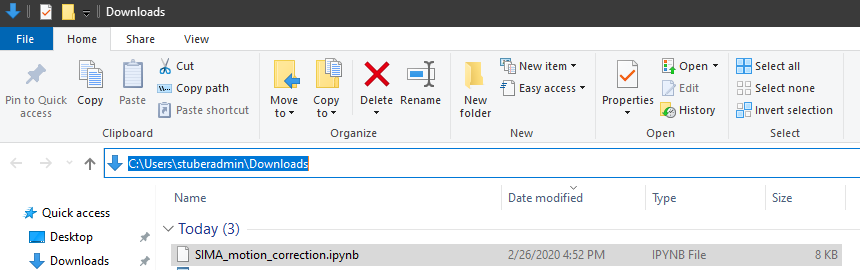
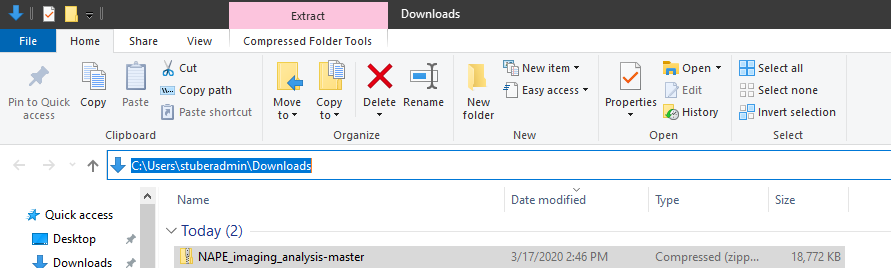
updated anaconda install guide for whole repo

diff --git a/docs/_build/html/install_anaconda_sima.html b/docs/_build/html/install_anaconda_sima.html
@@ -188,23 +188,25 @@ b. Choose Python 3.7 version for most up-to-date python version. Note: You can s
 <div class="section" id="starting-anaconda-and-installing-an-environment">
 <h2>Starting Anaconda and installing an environment<a class="headerlink" href="#starting-anaconda-and-installing-an-environment" title="Permalink to this headline">¶</a></h2>
 <ol class="arabic simple" start="5">
-<li><p>Search for “Anaconda” in the start menu and click “Anaconda Prompt</p></li>
+<li><p>Search for “Anaconda” in the start menu and click “Anaconda Prompt”</p></li>
 </ol>
 <img alt="_images/4_open_prompt.png" src="_images/4_open_prompt.png" />
-<p>This is how the anaconda prompt looks like at the start. The current environment is in parentheses and the following text indicates what directory you currently are in (equivalent to if you had the finder/explorer window open to that specific folder).
-<br> * Note: an environment is a directory that contains a collection of python packages that the user can customize and tailor to a specific project. One can create, edit, and delete any number of environments as he or she chooses.</p>
+<p>This is how the anaconda prompt looks like at the start. The current environment is in parentheses and the following text indicates what directory you currently are in (equivalent to if you had the finder/explorer window open to that specific folder).|br|
+* Note: an environment is a directory that contains a collection of python packages that the user can customize and tailor to a specific project. One can create, edit, and delete any number of environments as he or she chooses.|br|</p>
 <img alt="_images/5_prompt.png" src="_images/5_prompt.png" />
-<p>6) Download the sima_env.yml file in this link: <a class="reference external" href="https://github.com/zhounapeuw/NAPE_imaging_analysis/blob/master/sima_env.yml">https://github.com/zhounapeuw/NAPE_imaging_analysis/blob/master/sima_env.yml</a>
-<br> *  To do this, you need to right click the “raw” button and click “Save target as” and save the file to an easy-to-access folder (throughout this walkthrough, it will be in the Downloads folder).</p>
+<p>Copy, paste, and execute the following code in the anaconda prompt to make sure conda, the package installer, is up to date: <code class="docutils literal notranslate"><span class="pre">conda</span> <span class="pre">update</span> <span class="pre">-n</span> <span class="pre">base</span> <span class="pre">-c</span> <span class="pre">defaults</span> <span class="pre">conda</span></code></p>
+<img alt="_images/anaconda_sima_install/5_2_update_conda.png" src="_images/anaconda_sima_install/5_2_update_conda.png" />
+<p>6) Download the sima_env.yml file in this link: <a class="reference external" href="https://github.com/zhounapeuw/NAPE_imaging_analysis/blob/master/sima_env.yml">https://github.com/zhounapeuw/NAPE_imaging_analysis/blob/master/sima_env.yml</a> <br>
+*  To do this, you need to right click the “raw” button and click “Save target as” and save the file to an easy-to-access folder (throughout this walkthrough, it will be in the Downloads folder).</p>
 <img alt="_images/6_get_env.png" src="_images/6_get_env.png" />
-<p>7) Take note of where the sima_env.yml file is located (in this example it is in my downloads folder, but it can be anywhere you want as long as you provide the correct path to the file during installation).
-<br> *  Take note of the full path to where the sima_env.yml is in. If it is in the downloads folder, the path will be similar to <strong>“C:/Users/user_name/Downloads”</strong> where <strong>user_name</strong> may differ across computers based on what the user name is. Please replace <em>user_name</em> with your PC’s username.
-<br> *  Note: the sima_env.yml file contains installation information to recreate the same environment and installed packages to run the analyses.
-<br> *  Note: the sima_env.yml file can be deleted once everything has been installed and the analysis scripts work.
-<br> *  Note: the python version of this environment is 2.7, which is required for SIMA (the motion correction package) to run.</p>
+<p>7) Take note of where the sima_env.yml file is located (in this example it is in my downloads folder, but it can be anywhere you want as long as you provide the correct path to the file during installation). <br>
+*  Take note of the full path to where the sima_env.yml is in. If it is in the downloads folder, the path will be similar to <strong>“C:/Users/user_name/Downloads”</strong> where <strong>user_name</strong> may differ across computers based on what the user name is. Please replace <em>user_name</em> with your PC’s username. <br>
+*  Note: the sima_env.yml file contains installation information to recreate the same environment and installed packages to run the analyses. <br>
+*  Note: the sima_env.yml file can be deleted once everything has been installed and the analysis scripts work. <br>
+*  Note: the python version of this environment is 2.7, which is required for SIMA (the motion correction package) to run.</p>
 <img alt="_images/7_env_path.png" src="_images/7_env_path.png" />
-<p>8) Copy, paste, and execute the following code into the anaconda prompt to recreate a new environment from the sima_env.yml file: <code class="docutils literal notranslate"><span class="pre">conda</span> <span class="pre">env</span> <span class="pre">create</span> <span class="pre">-n</span> <span class="pre">sima_env</span> <span class="pre">-f</span> <span class="pre">C:/Users/user_name/Downloads/sima_env.yml</span></code> (remember to replace the user_name)
-<br> * Note, you can also navigate to the Downloads folder yourself using the <strong>cd</strong> command and simply execute <code class="docutils literal notranslate"><span class="pre">conda</span> <span class="pre">env</span> <span class="pre">create</span> <span class="pre">-n</span> <span class="pre">sima_env</span> <span class="pre">-f</span> <span class="pre">sima_env.yml</span></code></p>
+<p>8) Copy, paste, and execute the following code into the anaconda prompt to recreate a new environment from the sima_env.yml file: <code class="docutils literal notranslate"><span class="pre">conda</span> <span class="pre">env</span> <span class="pre">create</span> <span class="pre">-n</span> <span class="pre">sima_env</span> <span class="pre">-f</span> <span class="pre">C:/Users/user_name/Downloads/sima_env.yml</span></code> (remember to replace the user_name) <br>
+* Note, you can also navigate to the Downloads folder yourself using the <strong>cd</strong> command and simply execute <code class="docutils literal notranslate"><span class="pre">conda</span> <span class="pre">env</span> <span class="pre">create</span> <span class="pre">-n</span> <span class="pre">sima_env</span> <span class="pre">-f</span> <span class="pre">sima_env.yml</span></code></p>
 <img alt="_images/8_create_env.png" src="_images/8_create_env.png" />
 <p>Once the environment installer runs through, you should see a list of all the conda and python packages successfully installed.</p>
 <img alt="_images/9_env_installed.png" src="_images/9_env_installed.png" />
@@ -226,25 +228,27 @@ b. Choose Python 3.7 version for most up-to-date python version. Note: You can s
 <div class="section" id="using-jupyter-notebook-to-edit-and-run-sima-code">
 <h2>Using jupyter notebook to edit and run (SIMA) code<a class="headerlink" href="#using-jupyter-notebook-to-edit-and-run-sima-code" title="Permalink to this headline">¶</a></h2>
 <ol class="arabic simple" start="13">
-<li><p>Download the SIMA_motion_correction.ipynb script from this link: <a class="reference external" href="https://github.com/zhounapeuw/NAPE_imaging_analysis/blob/master/SIMA_motion_correction.ipynb">https://github.com/zhounapeuw/NAPE_imaging_analysis/blob/master/SIMA_motion_correction.ipynb</a></p></li>
+<li><p>Download the NAPE analysis script repository from this link: <a class="reference external" href="https://github.com/zhounapeuw/NAPE_imaging_analysis">https://github.com/zhounapeuw/NAPE_imaging_analysis</a></p></li>
 </ol>
 <img alt="_images/13_download_mc_code.png" src="_images/13_download_mc_code.png" />
 <ol class="arabic simple" start="14">
-<li><p>Take note of where the analysis jupyter notebook or python script resides (We have it in the Downloads folder for this demo)</p></li>
+<li><p>Take note of where the downloaded zip file resides (we have it in the Downloads folder for this demo) and unzip the directory.</p></li>
 </ol>
 <img alt="_images/14_mc_code_dir.png" src="_images/14_mc_code_dir.png" />
-<p>Then navigate to that folder in the anaconda prompt : <code class="docutils literal notranslate"><span class="pre">cd</span> <span class="pre">C:/Users/user_name/Downloads/</span></code> (remember to replace the user_name)</p>
+<p>Then navigate to the sima_mc_wrapper folder in the anaconda prompt (your path may look slightly different): <code class="docutils literal notranslate"><span class="pre">cd</span> <span class="pre">C:/Users/user_name/Downloads/NAPE_imaging_analysis-master/sima_mc_wrapper</span></code> (remember to replace the user_name)</p>
 <img alt="_images/15_cd_to_code.png" src="_images/15_cd_to_code.png" />
-<p>15) Execute <code class="docutils literal notranslate"><span class="pre">jupyter</span> <span class="pre">notebook</span></code> and an instance of jupyter notebook will start up in your web browser.
-<br> * Jupyter notebook is a powerful application that allows for editing and running python code. Anaconda boots up an instance of python that can be interacted with via the jupyter notebook web client.
-<br> * The first page that opens in your browser will show the files in your current directory specified in the Anaconda prompt. Files with the ipynb (iPython notebook) extension can be clicked and will open the notebook.</p>
+<p>15) Execute <code class="docutils literal notranslate"><span class="pre">jupyter</span> <span class="pre">notebook</span></code> and an instance of jupyter will start up in your web browser. <br>
+* Jupyter notebook is a powerful application that allows for editing and running python code. Anaconda boots up an instance of python that can be interacted with via the jupyter notebook web client. <br>
+* The first page that opens in your browser will show the files in your current directory specified in the Anaconda prompt. Files with the ipynb (iPython notebook) extension can be clicked and will open the notebook.</p>
 <img alt="_images/16_jupyter_open.png" src="_images/16_jupyter_open.png" />
 <p>Then the following window will open in your default browser:</p>
 <img alt="_images/17_jupyter_notebook.png" src="_images/17_jupyter_notebook.png" />
-<p>A jupyter notebook consists of cells where one can write and execute code. Typically the first cell contains lines for importing packages and dependencies. For example, for us to use the SIMA library and its functions, we must have an import sima line.
-<br> * To run a cell, the easiest way is to press shift + enter
-<br> * Refer to this guide for more details on how to use jupyter notebook: <a class="reference external" href="https://www.codecademy.com/articles/how-to-use-jupyter-notebooks">https://www.codecademy.com/articles/how-to-use-jupyter-notebooks</a></p>
+<p>Click the main_parallel.ipynb link and a jupyter notebook will open.</p>
+<p>A jupyter notebook consists of cells where one can write and execute code. Typically the first cell contains lines for importing packages and dependencies. For example, for us to use the SIMA library and its functions, we must have an import sima line. <br>
+* To run a cell, the easiest way is to press shift + enter <br>
+* Refer to this guide for more details on how to use jupyter notebook: <a class="reference external" href="https://www.codecademy.com/articles/how-to-use-jupyter-notebooks">https://www.codecademy.com/articles/how-to-use-jupyter-notebooks</a></p>
 <img alt="_images/18_mc_code.png" src="_images/18_mc_code.png" />
+<p>Read and follow the documentation within the jupyter notebook on how to analyze data.</p>
 </div>
 <div class="section" id="troubleshooting">
 <h2>Troubleshooting<a class="headerlink" href="#troubleshooting" title="Permalink to this headline">¶</a></h2>

diff --git a/docs/install_anaconda_sima.html b/docs/install_anaconda_sima.html
@@ -188,23 +188,25 @@ b. Choose Python 3.7 version for most up-to-date python version. Note: You can s
 <div class="section" id="starting-anaconda-and-installing-an-environment">
 <h2>Starting Anaconda and installing an environment<a class="headerlink" href="#starting-anaconda-and-installing-an-environment" title="Permalink to this headline">¶</a></h2>
 <ol class="arabic simple" start="5">
-<li><p>Search for “Anaconda” in the start menu and click “Anaconda Prompt</p></li>
+<li><p>Search for “Anaconda” in the start menu and click “Anaconda Prompt”</p></li>
 </ol>
 <img alt="_images/4_open_prompt.png" src="_images/4_open_prompt.png" />
-<p>This is how the anaconda prompt looks like at the start. The current environment is in parentheses and the following text indicates what directory you currently are in (equivalent to if you had the finder/explorer window open to that specific folder).
-<br> * Note: an environment is a directory that contains a collection of python packages that the user can customize and tailor to a specific project. One can create, edit, and delete any number of environments as he or she chooses.</p>
+<p>This is how the anaconda prompt looks like at the start. The current environment is in parentheses and the following text indicates what directory you currently are in (equivalent to if you had the finder/explorer window open to that specific folder).|br|
+* Note: an environment is a directory that contains a collection of python packages that the user can customize and tailor to a specific project. One can create, edit, and delete any number of environments as he or she chooses.|br|</p>
 <img alt="_images/5_prompt.png" src="_images/5_prompt.png" />
-<p>6) Download the sima_env.yml file in this link: <a class="reference external" href="https://github.com/zhounapeuw/NAPE_imaging_analysis/blob/master/sima_env.yml">https://github.com/zhounapeuw/NAPE_imaging_analysis/blob/master/sima_env.yml</a>
-<br> *  To do this, you need to right click the “raw” button and click “Save target as” and save the file to an easy-to-access folder (throughout this walkthrough, it will be in the Downloads folder).</p>
+<p>Copy, paste, and execute the following code in the anaconda prompt to make sure conda, the package installer, is up to date: <code class="docutils literal notranslate"><span class="pre">conda</span> <span class="pre">update</span> <span class="pre">-n</span> <span class="pre">base</span> <span class="pre">-c</span> <span class="pre">defaults</span> <span class="pre">conda</span></code></p>
+<img alt="_images/anaconda_sima_install/5_2_update_conda.png" src="_images/anaconda_sima_install/5_2_update_conda.png" />
+<p>6) Download the sima_env.yml file in this link: <a class="reference external" href="https://github.com/zhounapeuw/NAPE_imaging_analysis/blob/master/sima_env.yml">https://github.com/zhounapeuw/NAPE_imaging_analysis/blob/master/sima_env.yml</a> <br>
+*  To do this, you need to right click the “raw” button and click “Save target as” and save the file to an easy-to-access folder (throughout this walkthrough, it will be in the Downloads folder).</p>
 <img alt="_images/6_get_env.png" src="_images/6_get_env.png" />
-<p>7) Take note of where the sima_env.yml file is located (in this example it is in my downloads folder, but it can be anywhere you want as long as you provide the correct path to the file during installation).
-<br> *  Take note of the full path to where the sima_env.yml is in. If it is in the downloads folder, the path will be similar to <strong>“C:/Users/user_name/Downloads”</strong> where <strong>user_name</strong> may differ across computers based on what the user name is. Please replace <em>user_name</em> with your PC’s username.
-<br> *  Note: the sima_env.yml file contains installation information to recreate the same environment and installed packages to run the analyses.
-<br> *  Note: the sima_env.yml file can be deleted once everything has been installed and the analysis scripts work.
-<br> *  Note: the python version of this environment is 2.7, which is required for SIMA (the motion correction package) to run.</p>
+<p>7) Take note of where the sima_env.yml file is located (in this example it is in my downloads folder, but it can be anywhere you want as long as you provide the correct path to the file during installation). <br>
+*  Take note of the full path to where the sima_env.yml is in. If it is in the downloads folder, the path will be similar to <strong>“C:/Users/user_name/Downloads”</strong> where <strong>user_name</strong> may differ across computers based on what the user name is. Please replace <em>user_name</em> with your PC’s username. <br>
+*  Note: the sima_env.yml file contains installation information to recreate the same environment and installed packages to run the analyses. <br>
+*  Note: the sima_env.yml file can be deleted once everything has been installed and the analysis scripts work. <br>
+*  Note: the python version of this environment is 2.7, which is required for SIMA (the motion correction package) to run.</p>
 <img alt="_images/7_env_path.png" src="_images/7_env_path.png" />
-<p>8) Copy, paste, and execute the following code into the anaconda prompt to recreate a new environment from the sima_env.yml file: <code class="docutils literal notranslate"><span class="pre">conda</span> <span class="pre">env</span> <span class="pre">create</span> <span class="pre">-n</span> <span class="pre">sima_env</span> <span class="pre">-f</span> <span class="pre">C:/Users/user_name/Downloads/sima_env.yml</span></code> (remember to replace the user_name)
-<br> * Note, you can also navigate to the Downloads folder yourself using the <strong>cd</strong> command and simply execute <code class="docutils literal notranslate"><span class="pre">conda</span> <span class="pre">env</span> <span class="pre">create</span> <span class="pre">-n</span> <span class="pre">sima_env</span> <span class="pre">-f</span> <span class="pre">sima_env.yml</span></code></p>
+<p>8) Copy, paste, and execute the following code into the anaconda prompt to recreate a new environment from the sima_env.yml file: <code class="docutils literal notranslate"><span class="pre">conda</span> <span class="pre">env</span> <span class="pre">create</span> <span class="pre">-n</span> <span class="pre">sima_env</span> <span class="pre">-f</span> <span class="pre">C:/Users/user_name/Downloads/sima_env.yml</span></code> (remember to replace the user_name) <br>
+* Note, you can also navigate to the Downloads folder yourself using the <strong>cd</strong> command and simply execute <code class="docutils literal notranslate"><span class="pre">conda</span> <span class="pre">env</span> <span class="pre">create</span> <span class="pre">-n</span> <span class="pre">sima_env</span> <span class="pre">-f</span> <span class="pre">sima_env.yml</span></code></p>
 <img alt="_images/8_create_env.png" src="_images/8_create_env.png" />
 <p>Once the environment installer runs through, you should see a list of all the conda and python packages successfully installed.</p>
 <img alt="_images/9_env_installed.png" src="_images/9_env_installed.png" />
@@ -226,25 +228,27 @@ b. Choose Python 3.7 version for most up-to-date python version. Note: You can s
 <div class="section" id="using-jupyter-notebook-to-edit-and-run-sima-code">
 <h2>Using jupyter notebook to edit and run (SIMA) code<a class="headerlink" href="#using-jupyter-notebook-to-edit-and-run-sima-code" title="Permalink to this headline">¶</a></h2>
 <ol class="arabic simple" start="13">
-<li><p>Download the SIMA_motion_correction.ipynb script from this link: <a class="reference external" href="https://github.com/zhounapeuw/NAPE_imaging_analysis/blob/master/SIMA_motion_correction.ipynb">https://github.com/zhounapeuw/NAPE_imaging_analysis/blob/master/SIMA_motion_correction.ipynb</a></p></li>
+<li><p>Download the NAPE analysis script repository from this link: <a class="reference external" href="https://github.com/zhounapeuw/NAPE_imaging_analysis">https://github.com/zhounapeuw/NAPE_imaging_analysis</a></p></li>
 </ol>
 <img alt="_images/13_download_mc_code.png" src="_images/13_download_mc_code.png" />
 <ol class="arabic simple" start="14">
-<li><p>Take note of where the analysis jupyter notebook or python script resides (We have it in the Downloads folder for this demo)</p></li>
+<li><p>Take note of where the downloaded zip file resides (we have it in the Downloads folder for this demo) and unzip the directory.</p></li>
 </ol>
 <img alt="_images/14_mc_code_dir.png" src="_images/14_mc_code_dir.png" />
-<p>Then navigate to that folder in the anaconda prompt : <code class="docutils literal notranslate"><span class="pre">cd</span> <span class="pre">C:/Users/user_name/Downloads/</span></code> (remember to replace the user_name)</p>
+<p>Then navigate to the sima_mc_wrapper folder in the anaconda prompt (your path may look slightly different): <code class="docutils literal notranslate"><span class="pre">cd</span> <span class="pre">C:/Users/user_name/Downloads/NAPE_imaging_analysis-master/sima_mc_wrapper</span></code> (remember to replace the user_name)</p>
 <img alt="_images/15_cd_to_code.png" src="_images/15_cd_to_code.png" />
-<p>15) Execute <code class="docutils literal notranslate"><span class="pre">jupyter</span> <span class="pre">notebook</span></code> and an instance of jupyter notebook will start up in your web browser.
-<br> * Jupyter notebook is a powerful application that allows for editing and running python code. Anaconda boots up an instance of python that can be interacted with via the jupyter notebook web client.
-<br> * The first page that opens in your browser will show the files in your current directory specified in the Anaconda prompt. Files with the ipynb (iPython notebook) extension can be clicked and will open the notebook.</p>
+<p>15) Execute <code class="docutils literal notranslate"><span class="pre">jupyter</span> <span class="pre">notebook</span></code> and an instance of jupyter will start up in your web browser. <br>
+* Jupyter notebook is a powerful application that allows for editing and running python code. Anaconda boots up an instance of python that can be interacted with via the jupyter notebook web client. <br>
+* The first page that opens in your browser will show the files in your current directory specified in the Anaconda prompt. Files with the ipynb (iPython notebook) extension can be clicked and will open the notebook.</p>
 <img alt="_images/16_jupyter_open.png" src="_images/16_jupyter_open.png" />
 <p>Then the following window will open in your default browser:</p>
 <img alt="_images/17_jupyter_notebook.png" src="_images/17_jupyter_notebook.png" />
-<p>A jupyter notebook consists of cells where one can write and execute code. Typically the first cell contains lines for importing packages and dependencies. For example, for us to use the SIMA library and its functions, we must have an import sima line.
-<br> * To run a cell, the easiest way is to press shift + enter
-<br> * Refer to this guide for more details on how to use jupyter notebook: <a class="reference external" href="https://www.codecademy.com/articles/how-to-use-jupyter-notebooks">https://www.codecademy.com/articles/how-to-use-jupyter-notebooks</a></p>
+<p>Click the main_parallel.ipynb link and a jupyter notebook will open.</p>
+<p>A jupyter notebook consists of cells where one can write and execute code. Typically the first cell contains lines for importing packages and dependencies. For example, for us to use the SIMA library and its functions, we must have an import sima line. <br>
+* To run a cell, the easiest way is to press shift + enter <br>
+* Refer to this guide for more details on how to use jupyter notebook: <a class="reference external" href="https://www.codecademy.com/articles/how-to-use-jupyter-notebooks">https://www.codecademy.com/articles/how-to-use-jupyter-notebooks</a></p>
 <img alt="_images/18_mc_code.png" src="_images/18_mc_code.png" />
+<p>Read and follow the documentation within the jupyter notebook on how to analyze data.</p>
 </div>
 <div class="section" id="troubleshooting">
 <h2>Troubleshooting<a class="headerlink" href="#troubleshooting" title="Permalink to this headline">¶</a></h2>

diff --git a/docs/_build/html/searchindex.js b/docs/_build/html/searchindex.js
@@ -1,1 +1,1 @@
-Search.setIndex({docnames:["NAPE_Head","demos","install_anaconda_sima","installs2p","suite2p"],envversion:{"sphinx.domains.c":1,"sphinx.domains.changeset":1,"sphinx.domains.citation":1,"sphinx.domains.cpp":1,"sphinx.domains.index":1,"sphinx.domains.javascript":1,"sphinx.domains.math":2,"sphinx.domains.python":1,"sphinx.domains.rst":1,"sphinx.domains.std":1,"sphinx.ext.todo":2,"sphinx.ext.viewcode":1,sphinx:56},filenames:["NAPE_Head.rst","demos.rst","install_anaconda_sima.rst","installs2p.rst","suite2p.rst"],objects:{},objnames:{},objtypes:{},terms:{"case":[2,3],"default":[1,2],"float":1,"function":2,"import":[1,2],"int":1,"long":2,"new":[2,3],"switch":2,"throw":1,"try":1,For:2,Not:1,One:2,PCs:2,The:2,Then:2,Using:0,abbrevi:4,abov:1,access:2,across:2,activ:[2,3],add:2,addict:0,advanc:2,after:1,agre:2,algorithm:1,all:[2,3],allow:[1,2],also:2,anaconda:[0,3],analys:2,analysi:[2,4],ani:[1,2],anywher:2,applic:2,articl:2,author:1,autompixelsat:1,bar:2,base:2,bat:2,been:2,befor:[1,3],benefici:2,bit:2,blob:2,bold:[1,2],bool:1,boot:2,brain:0,browser:2,bullet:1,button:2,calcium:[2,4],call:2,campu:4,can:[1,2,3],carandini:4,carsen:4,cell:[1,2],chang:2,charl:0,choos:[2,3],clarifi:1,click:2,client:2,clone:3,close:1,code:0,codecademi:2,collect:2,colleg:4,com:[2,3],command:2,complet:2,comprehens:0,comput:[2,3],conda:[2,3],conflict:2,consid:1,consist:2,contain:2,content:0,continu:2,control:1,copi:[2,3],correct:2,correl:1,cp27:2,cp27m:2,cp65001:2,creat:[2,3],criterion:1,current:2,custom:[0,2],data:4,dataset:1,date:2,deep:0,defin:1,delet:2,demo:[0,2],dens:1,depend:2,detail:2,detect:1,determin:1,develop:4,diamet:1,differ:2,directori:2,discard:1,distribut:[2,3],document:[3,4],download:[2,3],drawer:2,due:1,dure:[1,2],each:2,eachoth:1,easi:2,easiest:2,edit:0,edu:2,emot:0,encod:2,encount:2,end:2,enter:2,env:[2,3],environ:[0,3],environment:2,equival:2,error:2,especi:2,everyth:2,exampl:[2,4],execut:2,explan:0,explor:2,extens:2,extract:1,facilit:2,fail:2,fals:1,far:2,fewer:1,file:[2,3],finder:2,first:[1,2],folder:2,follow:[1,2],fortun:2,fraction:1,from:[1,2,3],full:2,further:4,get:4,github:[2,3],gohlk:2,graphic:2,grin:0,group:1,gui:4,guid:[0,4],guidelin:0,had:2,harri:4,has:2,have:[1,2,3],here:[0,4],higher:1,hit:2,how:[1,2,4],howard:4,http:[2,3],hugh:4,imag:[2,4],immedi:4,indic:2,inform:2,insight:1,instal:0,instanc:2,institut:4,interact:2,interfac:2,involv:2,ipynb:2,ipython:2,italic:2,iter:1,its:2,janelia:4,jupyt:0,just:2,kapur:0,keep:2,kenneth:4,lab:4,label:1,learn:2,left:3,len:0,lfd:2,librari:2,like:2,line:[2,3],link:2,linkerror:2,list:2,local:[1,3],locat:2,london:4,look:2,lookuperror:2,lower:1,mai:2,manag:2,mani:1,map:1,mariu:4,master:2,matteo:4,max_iter:1,max_overlap:1,medic:4,menu:2,more:[1,2],most:[1,2],motion:2,mouseland:3,much:1,multipl:2,must:2,name:2,nape_2pbenchmark:[2,3],nape_imaging_analysi:2,navig:2,necessari:2,need:2,neurobiolog:0,next:2,nois:1,note:[1,2],notebook:0,now:3,number:2,off:1,older:3,onc:2,one:[2,3],open:[2,3],oper:[2,3],ops:1,optim:1,option:2,organ:2,other:1,our:1,out:1,over:[1,2],overlap:1,pachitariu:4,packag:2,page:2,pain:0,paramet:[0,4],parenthes:2,past:[2,3],path:[2,3],path_to_the_fil:[2,3],pertain:2,photon:0,pip:2,pipelin:0,pixel:1,pleas:2,point:1,post2:2,post:2,power:2,preprocess:[0,2],prerequisit:2,press:2,previous:4,problem:2,process:2,project:2,prompt:[2,3],prototyp:2,provid:[0,1,2,4],python:[2,3,4],pythonioencod:2,pythonlib:2,quot:1,raw:2,recommend:[1,2],record:1,recreat:2,refer:2,rememb:2,remov:3,replac:[2,3],repositori:3,requir:2,research:4,resid:2,right:2,roi:1,run:[0,3],same:2,save:2,scale:1,script:2,search:2,see:[2,3],seem:1,segment:0,separ:2,set:[1,2,3],setup:4,shape:2,she:2,shift:2,should:[2,3],show:[1,2],side:3,sima:0,sima_env:2,sima_motion_correct:2,similar:2,simpli:2,some:2,sparse_mod:1,spatial:1,spatial_scal:1,specif:2,specifi:2,stand:1,start:0,step:2,still:2,stop:1,stringer:4,successfulli:2,suite2p:0,system:[2,3],tailor:2,take:2,tanish:0,target:2,tempor:1,termin:3,test:1,text:[2,3],than:1,thereaft:1,therefor:1,thi:[1,2,3],think:2,threshold:1,threshold_sc:1,through:2,throughout:2,thu:2,tinker:2,tool:0,topic:2,troubleshoot:0,tutori:2,type:2,typic:2,uci:2,under:2,unfortun:2,uniqu:2,univers:[0,4],unknown:2,until:2,usag:4,use:[1,2,4],used:1,user:[1,2],user_nam:2,usernam:2,usersstuberadminanaconda3envstmp_simascript:2,using:[0,2],usual:1,utf:2,valu:1,variabl:2,vc9hc26998b_12:2,version:2,via:2,wai:2,walk:2,walkthrough:2,want:2,washington:0,web:2,websit:0,were:0,what:[1,2],where:2,whether:1,which:[1,2],whl:2,win_amd64:2,window:[0,2],windowssystem32to:2,work:2,write:2,written:0,www:2,yml:[2,3],you:[1,2,3],your:[2,3],yourself:[1,2],zhe:0,zhou:0,zhounapeuw:2},titles:["Welcome to NAPE Center Calcium Imaging Analysis Documentation Site!","Suite2p Segmentation Parameter Explanations and Demos","Anaconda, Jupyter Notebook, SIMA Installation Guide","Installation of suite2p on Windows","Suite2p Preprocessing Pipeline"],titleterms:{For:[],Using:2,anaconda:2,analysi:0,calcium:0,center:0,code:2,demo:1,document:0,edit:2,environ:2,explan:1,guid:2,imag:0,instal:[2,3],jupyt:2,nape:0,notebook:2,paramet:1,pipelin:4,preprocess:4,run:2,segment:1,sima:2,site:0,start:2,suite2p:[1,3,4],troubleshoot:2,welcom:0,window:3}})
+Search.setIndex({docnames:["NAPE_Head","demos","install_anaconda_sima","installs2p","suite2p"],envversion:{"sphinx.domains.c":1,"sphinx.domains.changeset":1,"sphinx.domains.citation":1,"sphinx.domains.cpp":1,"sphinx.domains.index":1,"sphinx.domains.javascript":1,"sphinx.domains.math":2,"sphinx.domains.python":1,"sphinx.domains.rst":1,"sphinx.domains.std":1,"sphinx.ext.todo":2,"sphinx.ext.viewcode":1,sphinx:56},filenames:["NAPE_Head.rst","demos.rst","install_anaconda_sima.rst","installs2p.rst","suite2p.rst"],objects:{},objnames:{},objtypes:{},terms:{"case":[2,3],"default":[1,2],"float":1,"function":2,"import":[1,2],"int":1,"long":2,"new":[2,3],"switch":2,"throw":1,"try":1,For:2,Not:1,One:2,PCs:2,The:2,Then:2,Using:0,abbrevi:4,abov:1,access:2,across:2,activ:[2,3],add:2,addict:0,advanc:2,after:1,agre:2,algorithm:1,all:[2,3],allow:[1,2],also:2,anaconda:[0,3],analys:2,analysi:[2,4],analyz:2,ani:[1,2],anywher:2,applic:2,articl:2,author:1,autompixelsat:1,bar:2,base:2,bat:2,been:2,befor:[1,3],benefici:2,bit:2,blob:2,bold:[1,2],bool:1,boot:2,brain:0,browser:2,bullet:1,button:2,calcium:[2,4],call:2,campu:4,can:[1,2,3],carandini:4,carsen:4,cell:[1,2],chang:2,charl:0,choos:[2,3],clarifi:1,click:2,client:2,clone:3,close:1,code:0,codecademi:2,collect:2,colleg:4,com:[2,3],command:2,complet:2,comprehens:0,comput:[2,3],conda:[2,3],conflict:2,consid:1,consist:2,contain:2,content:0,continu:2,control:1,copi:[2,3],correct:2,correl:1,cp27:2,cp27m:2,cp65001:2,creat:[2,3],criterion:1,current:2,custom:[0,2],data:[2,4],dataset:1,date:2,deep:0,defin:1,delet:2,demo:[0,2],dens:1,depend:2,detail:2,detect:1,determin:1,develop:4,diamet:1,differ:2,directori:2,discard:1,distribut:[2,3],document:[2,3,4],download:[2,3],drawer:2,due:1,dure:[1,2],each:2,eachoth:1,easi:2,easiest:2,edit:0,edu:2,emot:0,encod:2,encount:2,end:2,enter:2,env:[2,3],environ:[0,3],environment:2,equival:2,error:2,especi:2,everyth:2,exampl:[2,4],execut:2,explan:0,explor:2,extens:2,extract:1,facilit:2,fail:2,fals:1,far:2,fewer:1,file:[2,3],finder:2,first:[1,2],folder:2,follow:[1,2],fortun:2,fraction:1,from:[1,2,3],full:2,further:4,get:4,github:[2,3],gohlk:2,graphic:2,grin:0,group:1,gui:4,guid:[0,4],guidelin:0,had:2,harri:4,has:2,have:[1,2,3],here:[0,4],higher:1,hit:2,how:[1,2,4],howard:4,http:[2,3],hugh:4,imag:[2,4],immedi:4,indic:2,inform:2,insight:1,instal:0,instanc:2,institut:4,interact:2,interfac:2,involv:2,ipynb:2,ipython:2,italic:2,iter:1,its:2,janelia:4,jupyt:0,just:2,kapur:0,keep:2,kenneth:4,lab:4,label:1,learn:2,left:3,len:0,lfd:2,librari:2,like:2,line:[2,3],link:2,linkerror:2,list:2,local:[1,3],locat:2,london:4,look:2,lookuperror:2,lower:1,mai:2,main_parallel:2,make:2,manag:2,mani:1,map:1,mariu:4,master:2,matteo:4,max_iter:1,max_overlap:1,medic:4,menu:2,more:[1,2],most:[1,2],motion:2,mouseland:3,much:1,multipl:2,must:2,name:2,nape:2,nape_2pbenchmark:[2,3],nape_imaging_analysi:2,navig:2,necessari:2,need:2,neurobiolog:0,next:2,nois:1,note:[1,2],notebook:0,now:3,number:2,off:1,older:3,onc:2,one:[2,3],open:[2,3],oper:[2,3],ops:1,optim:1,option:2,organ:2,other:1,our:1,out:1,over:[1,2],overlap:1,pachitariu:4,packag:2,page:2,pain:0,paramet:[0,4],parenthes:2,past:[2,3],path:[2,3],path_to_the_fil:[2,3],pertain:2,photon:0,pip:2,pipelin:0,pixel:1,pleas:2,point:1,post2:2,post:2,power:2,preprocess:[0,2],prerequisit:2,press:2,previous:4,problem:2,process:2,project:2,prompt:[2,3],prototyp:2,provid:[0,1,2,4],python:[2,3,4],pythonioencod:2,pythonlib:2,quot:1,raw:2,read:2,recommend:[1,2],record:1,recreat:2,refer:2,rememb:2,remov:3,replac:[2,3],repositori:[2,3],requir:2,research:4,resid:2,right:2,roi:1,run:[0,3],same:2,save:2,scale:1,script:2,search:2,see:[2,3],seem:1,segment:0,separ:2,set:[1,2,3],setup:4,shape:2,she:2,shift:2,should:[2,3],show:[1,2],side:3,sima:0,sima_env:2,sima_mc_wrapp:2,sima_motion_correct:[],similar:2,simpli:2,slightli:2,some:2,sparse_mod:1,spatial:1,spatial_scal:1,specif:2,specifi:2,stand:1,start:0,step:2,still:2,stop:1,stringer:4,successfulli:2,suite2p:0,sure:2,system:[2,3],tailor:2,take:2,tanish:0,target:2,tempor:1,termin:3,test:1,text:[2,3],than:1,thereaft:1,therefor:1,thi:[1,2,3],think:2,threshold:1,threshold_sc:1,through:2,throughout:2,thu:2,tinker:2,tool:0,topic:2,troubleshoot:0,tutori:2,type:2,typic:2,uci:2,under:2,unfortun:2,uniqu:2,univers:[0,4],unknown:2,until:2,unzip:2,updat:2,usag:4,use:[1,2,4],used:1,user:[1,2],user_nam:2,usernam:2,usersstuberadminanaconda3envstmp_simascript:2,using:[0,2],usual:1,utf:2,valu:1,variabl:2,vc9hc26998b_12:2,version:2,via:2,wai:2,walk:2,walkthrough:2,want:2,washington:0,web:2,websit:0,were:0,what:[1,2],where:2,whether:1,which:[1,2],whl:2,win_amd64:2,window:[0,2],windowssystem32to:2,within:2,work:2,write:2,written:0,www:2,yml:[2,3],you:[1,2,3],your:[2,3],yourself:[1,2],zhe:0,zhou:0,zhounapeuw:2,zip:2},titles:["Welcome to NAPE Center Calcium Imaging Analysis Documentation Site!","Suite2p Segmentation Parameter Explanations and Demos","Anaconda, Jupyter Notebook, SIMA Installation Guide","Installation of suite2p on Windows","Suite2p Preprocessing Pipeline"],titleterms:{For:[],Using:2,anaconda:2,analysi:0,calcium:0,center:0,code:2,demo:1,document:0,edit:2,environ:2,explan:1,guid:2,imag:0,instal:[2,3],jupyt:2,nape:0,notebook:2,paramet:1,pipelin:4,preprocess:4,run:2,segment:1,sima:2,site:0,start:2,suite2p:[1,3,4],troubleshoot:2,welcom:0,window:3}})

diff --git a/docs/install_anaconda_sima.rst b/docs/install_anaconda_sima.rst
@@ -37,30 +37,34 @@ Unfortunately and fortunately (it’s beneficial to learn some coding!) for you,
 Starting Anaconda and installing an environment
 ~~~~~~~~~~~~~~~~~~~~~~~~~~~~~~~~~~~~~~~~~~~~~~~
 
-5)	Search for “Anaconda” in the start menu and click “Anaconda Prompt
+5)	Search for “Anaconda” in the start menu and click “Anaconda Prompt”
 
 .. image:: _images/anaconda_sima_install/4_open_prompt.png
 
-This is how the anaconda prompt looks like at the start. The current environment is in parentheses and the following text indicates what directory you currently are in (equivalent to if you had the finder/explorer window open to that specific folder).
-|br| * Note: an environment is a directory that contains a collection of python packages that the user can customize and tailor to a specific project. One can create, edit, and delete any number of environments as he or she chooses.
+This is how the anaconda prompt looks like at the start. The current environment is in parentheses and the following text indicates what directory you currently are in (equivalent to if you had the finder/explorer window open to that specific folder).|br|
+* Note: an environment is a directory that contains a collection of python packages that the user can customize and tailor to a specific project. One can create, edit, and delete any number of environments as he or she chooses.|br|
 
 .. image:: _images/anaconda_sima_install/5_prompt.png
 
-6) Download the sima_env.yml file in this link: https://github.com/zhounapeuw/NAPE_imaging_analysis/blob/master/sima_env.yml
-|br| *  To do this, you need to right click the “raw” button and click “Save target as” and save the file to an easy-to-access folder (throughout this walkthrough, it will be in the Downloads folder).
+Copy, paste, and execute the following code in the anaconda prompt to make sure conda, the package installer, is up to date: ``conda update -n base -c defaults conda``
+
+.. image:: _images/anaconda_sima_install/5_2_update_conda.png
+
+6) Download the sima_env.yml file in this link: https://github.com/zhounapeuw/NAPE_imaging_analysis/blob/master/sima_env.yml |br|
+*  To do this, you need to right click the “raw” button and click “Save target as” and save the file to an easy-to-access folder (throughout this walkthrough, it will be in the Downloads folder).
 
 .. image:: _images/anaconda_sima_install/6_get_env.png
 
-7) Take note of where the sima_env.yml file is located (in this example it is in my downloads folder, but it can be anywhere you want as long as you provide the correct path to the file during installation).
-|br| *  Take note of the full path to where the sima_env.yml is in. If it is in the downloads folder, the path will be similar to **“C:/Users/user_name/Downloads”** where **user_name** may differ across computers based on what the user name is. Please replace *user_name* with your PC’s username.
-|br| *  Note: the sima_env.yml file contains installation information to recreate the same environment and installed packages to run the analyses.
-|br| *  Note: the sima_env.yml file can be deleted once everything has been installed and the analysis scripts work.
-|br| *  Note: the python version of this environment is 2.7, which is required for SIMA (the motion correction package) to run.
+7) Take note of where the sima_env.yml file is located (in this example it is in my downloads folder, but it can be anywhere you want as long as you provide the correct path to the file during installation). |br|
+*  Take note of the full path to where the sima_env.yml is in. If it is in the downloads folder, the path will be similar to **“C:/Users/user_name/Downloads”** where **user_name** may differ across computers based on what the user name is. Please replace *user_name* with your PC’s username. |br|
+*  Note: the sima_env.yml file contains installation information to recreate the same environment and installed packages to run the analyses. |br|
+*  Note: the sima_env.yml file can be deleted once everything has been installed and the analysis scripts work. |br|
+*  Note: the python version of this environment is 2.7, which is required for SIMA (the motion correction package) to run.
 
 .. image:: _images/anaconda_sima_install/7_env_path.png
 
-8) Copy, paste, and execute the following code into the anaconda prompt to recreate a new environment from the sima_env.yml file: ``conda env create -n sima_env -f C:/Users/user_name/Downloads/sima_env.yml`` (remember to replace the user_name)
-|br| * Note, you can also navigate to the Downloads folder yourself using the **cd** command and simply execute ``conda env create -n sima_env -f sima_env.yml``
+8) Copy, paste, and execute the following code into the anaconda prompt to recreate a new environment from the sima_env.yml file: ``conda env create -n sima_env -f C:/Users/user_name/Downloads/sima_env.yml`` (remember to replace the user_name) |br|
+* Note, you can also navigate to the Downloads folder yourself using the **cd** command and simply execute ``conda env create -n sima_env -f sima_env.yml``
 
 .. image:: _images/anaconda_sima_install/8_create_env.png
 
@@ -87,21 +91,21 @@ Then in anaconda prompt, run ``pip install C:/Users/user_name/Downloads/Shapely-
 Using jupyter notebook to edit and run (SIMA) code
 ~~~~~~~~~~~~~~~~~~~~~~~~~~~~~~~~~~~~~~~~~~~~~~~~~~
 
-13) Download the SIMA_motion_correction.ipynb script from this link: https://github.com/zhounapeuw/NAPE_imaging_analysis/blob/master/SIMA_motion_correction.ipynb
+13) Download the NAPE analysis script repository from this link: https://github.com/zhounapeuw/NAPE_imaging_analysis
 
 .. image:: _images/anaconda_sima_install/13_download_mc_code.png
 
-14) Take note of where the analysis jupyter notebook or python script resides (We have it in the Downloads folder for this demo)
+14) Take note of where the downloaded zip file resides (we have it in the Downloads folder for this demo) and unzip the directory.
 
 .. image:: _images/anaconda_sima_install/14_mc_code_dir.png
 
-Then navigate to that folder in the anaconda prompt : ``cd C:/Users/user_name/Downloads/`` (remember to replace the user_name)
+Then navigate to the sima_mc_wrapper folder in the anaconda prompt (your path may look slightly different): ``cd C:/Users/user_name/Downloads/NAPE_imaging_analysis-master/sima_mc_wrapper`` (remember to replace the user_name)
 
 .. image:: _images/anaconda_sima_install/15_cd_to_code.png
 
-15) Execute ``jupyter notebook`` and an instance of jupyter notebook will start up in your web browser.
-|br| * Jupyter notebook is a powerful application that allows for editing and running python code. Anaconda boots up an instance of python that can be interacted with via the jupyter notebook web client.
-|br| * The first page that opens in your browser will show the files in your current directory specified in the Anaconda prompt. Files with the ipynb (iPython notebook) extension can be clicked and will open the notebook.
+15) Execute ``jupyter notebook`` and an instance of jupyter will start up in your web browser. |br|
+* Jupyter notebook is a powerful application that allows for editing and running python code. Anaconda boots up an instance of python that can be interacted with via the jupyter notebook web client. |br|
+* The first page that opens in your browser will show the files in your current directory specified in the Anaconda prompt. Files with the ipynb (iPython notebook) extension can be clicked and will open the notebook.
 
 .. image:: _images/anaconda_sima_install/16_jupyter_open.png
 
@@ -109,11 +113,15 @@ Then the following window will open in your default browser:
 
 .. image:: _images/anaconda_sima_install/17_jupyter_notebook.png
 
-A jupyter notebook consists of cells where one can write and execute code. Typically the first cell contains lines for importing packages and dependencies. For example, for us to use the SIMA library and its functions, we must have an import sima line.
-|br| * To run a cell, the easiest way is to press shift + enter
-|br| * Refer to this guide for more details on how to use jupyter notebook: https://www.codecademy.com/articles/how-to-use-jupyter-notebooks
+Click the main_parallel.ipynb link and a jupyter notebook will open.
+
+A jupyter notebook consists of cells where one can write and execute code. Typically the first cell contains lines for importing packages and dependencies. For example, for us to use the SIMA library and its functions, we must have an import sima line. |br|
+* To run a cell, the easiest way is to press shift + enter |br|
+* Refer to this guide for more details on how to use jupyter notebook: https://www.codecademy.com/articles/how-to-use-jupyter-notebooks
 
 .. image:: _images/anaconda_sima_install/18_mc_code.png
+
+Read and follow the documentation within the jupyter notebook on how to analyze data.
 
 Troubleshooting
 ~~~~~~~~~~~~~~~
